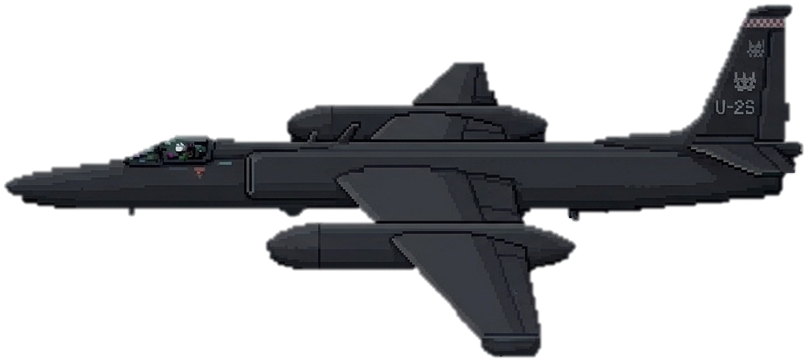
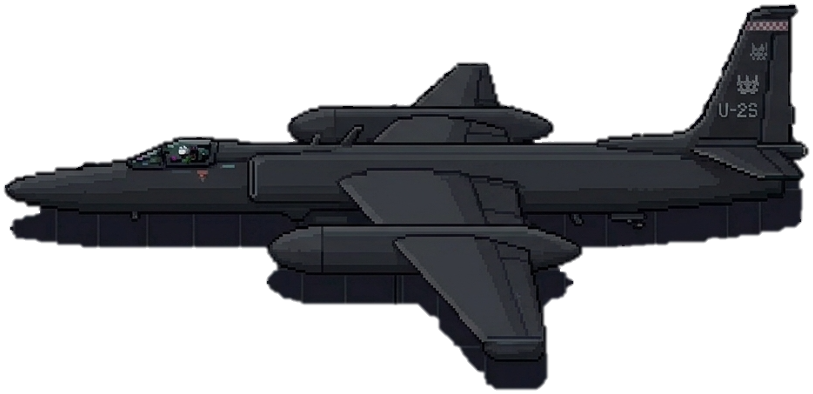
hero: nueva nave SR-71 y renovación del icono del U-2
El SR-71 se suma al hero con trayectoria fija sobre el título, encima de
"márquez" (nueva variante fijo-arriba-der). El U-2 estrena foto recortada.

Claude-Session: https://claude.ai/code/session_01BxtWZrE1S5G15CMh2Ep3SN

Changed region(s): [[0.0, 0.0, 1.0, 1.0]]

diff --git a/src/data/aeronaves.ts b/src/data/aeronaves.ts
@@ -15,8 +15,9 @@
 // en Head.astro; sin JS se ve el primero de la lista, quieto.
 //
 // Excepción de dibujo: ninguna sale ya del script salvo el Sentinel-2. El
-// TB3, el MQ-9, el RQ-4, el E-2, el U-2 y el Shahed-136 son fotos PNG tal
-// cual (sin versión de noche propia). Todas en public/zodk-<id>[-noche].{svg,png}.
+// TB3, el MQ-9, el RQ-4, el E-2, el U-2, el SR-71 y el Shahed-136 son fotos
+// PNG tal cual (sin versión de noche propia). Todas en
+// public/zodk-<id>[-noche].{svg,png}.
 
 export type Aeronave = {
   id: string;
@@ -25,7 +26,14 @@ export type Aeronave = {
   sprite: string; // /zodk-<id>.svg  (modo claro)
   spriteNoche: string; // /zodk-<id>-noche.svg
   ratio: string; // aspect-ratio del viewBox, "ancho / alto"
-  vuelo: "sweep" | "orbita" | "fijo" | "fijo-izq" | "fijo-centro" | "fijo-arriba"; // trayectoria (ver global.css)
+  vuelo:
+    | "sweep"
+    | "orbita"
+    | "fijo"
+    | "fijo-izq"
+    | "fijo-centro"
+    | "fijo-arriba"
+    | "fijo-arriba-der"; // trayectoria (ver global.css)
   escala?: number; // multiplica el ancho en el hero (1 = normal). Solo "sweep".
   bandera?: string; // emoji junto a "Origen" (o "País")
   specs: [string, string][]; // [etiqueta, valor]
@@ -113,7 +121,7 @@ export const AERONAVES: Aeronave[] = [
     clase: "Reconocimiento estratégico a gran altitud",
     sprite: "/zodk-u2.png",
     spriteNoche: "/zodk-u2.png",
-    ratio: "808 / 362",
+    ratio: "813 / 394",
     vuelo: "fijo-arriba",
     bandera: "🇺🇸",
     specs: [
@@ -124,6 +132,25 @@ export const AERONAVES: Aeronave[] = [
       ["Techo", "~21.300 m"],
       ["Tripulación", "1"],
       ["Autonomía", "~12 h"],
+    ],
+  },
+  {
+    id: "sr71",
+    nombre: "Lockheed SR-71 Blackbird",
+    clase: "Reconocimiento estratégico supersónico",
+    sprite: "/zodk-sr71.png",
+    spriteNoche: "/zodk-sr71.png",
+    ratio: "857 / 466",
+    vuelo: "fijo-arriba-der",
+    bandera: "🇺🇸",
+    specs: [
+      ["Fabricante", "Lockheed (Skunk Works)"],
+      ["Origen", "EE. UU."],
+      ["Primer vuelo", "1964"],
+      ["Envergadura", "16,9 m"],
+      ["Velocidad", "Mach 3,3"],
+      ["Techo", "~25.900 m"],
+      ["Tripulación", "2"],
     ],
   },
   {

diff --git a/src/styles/global.css b/src/styles/global.css
@@ -426,16 +426,19 @@ html.dark .hero-craft { background-image: var(--sprite-noche); }
   100% { transform: translate(90vw, 7vh); }
 }
 
-/* "fijo" / "fijo-izq" / "fijo-centro" / "fijo-arriba": la nave se queda en su
-   punto —normalmente debajo del título— pero describe una elipse pequeña y
-   lenta para que no parezca del todo parada. "fijo" = E-2, escorado a la
-   derecha y grande. "fijo-izq" = RQ-4, abajo a la izquierda y más pequeño.
-   "fijo-centro" = MQ-9, centrado bajo el título, mismo tamaño que el RQ-4.
-   "fijo-arriba" = U-2, por ENCIMA del título, sobre la palabra "blog". */
+/* "fijo" / "fijo-izq" / "fijo-centro" / "fijo-arriba" / "fijo-arriba-der": la
+   nave se queda en su punto —normalmente debajo del título— pero describe una
+   elipse pequeña y lenta para que no parezca del todo parada. "fijo" = E-2,
+   escorado a la derecha y grande. "fijo-izq" = RQ-4, abajo a la izquierda y
+   más pequeño. "fijo-centro" = MQ-9, centrado bajo el título, mismo tamaño
+   que el RQ-4. "fijo-arriba" = U-2, por ENCIMA del título, sobre la palabra
+   "blog". "fijo-arriba-der" = SR-71, igual pero más a la derecha, sobre
+   "márquez". */
 .hero-craft--fijo,
 .hero-craft--fijo-izq,
 .hero-craft--fijo-centro,
-.hero-craft--fijo-arriba {
+.hero-craft--fijo-arriba,
+.hero-craft--fijo-arriba-der {
   animation: hero-fijo-deriva 16s linear infinite;
 }
 .hero-craft--fijo {
@@ -460,6 +463,13 @@ html.dark .hero-craft { background-image: var(--sprite-noche); }
   top: 26%;
   /* foto en horizontal (808x362, mucho más ancha que alta), así que necesita
      más ancho de caja que las demás "fijo" para leerse a tamaño parecido. */
+  width: clamp(140px, 13vw, 210px);
+}
+.hero-craft--fijo-arriba-der {
+  /* misma altura y ancho que fijo-arriba, pero centrada sobre "márquez" en
+     vez de sobre "blog" (medido en el título renderizado, no a ojo). */
+  left: 60%;
+  top: 26%;
   width: clamp(140px, 13vw, 210px);
 }
 
